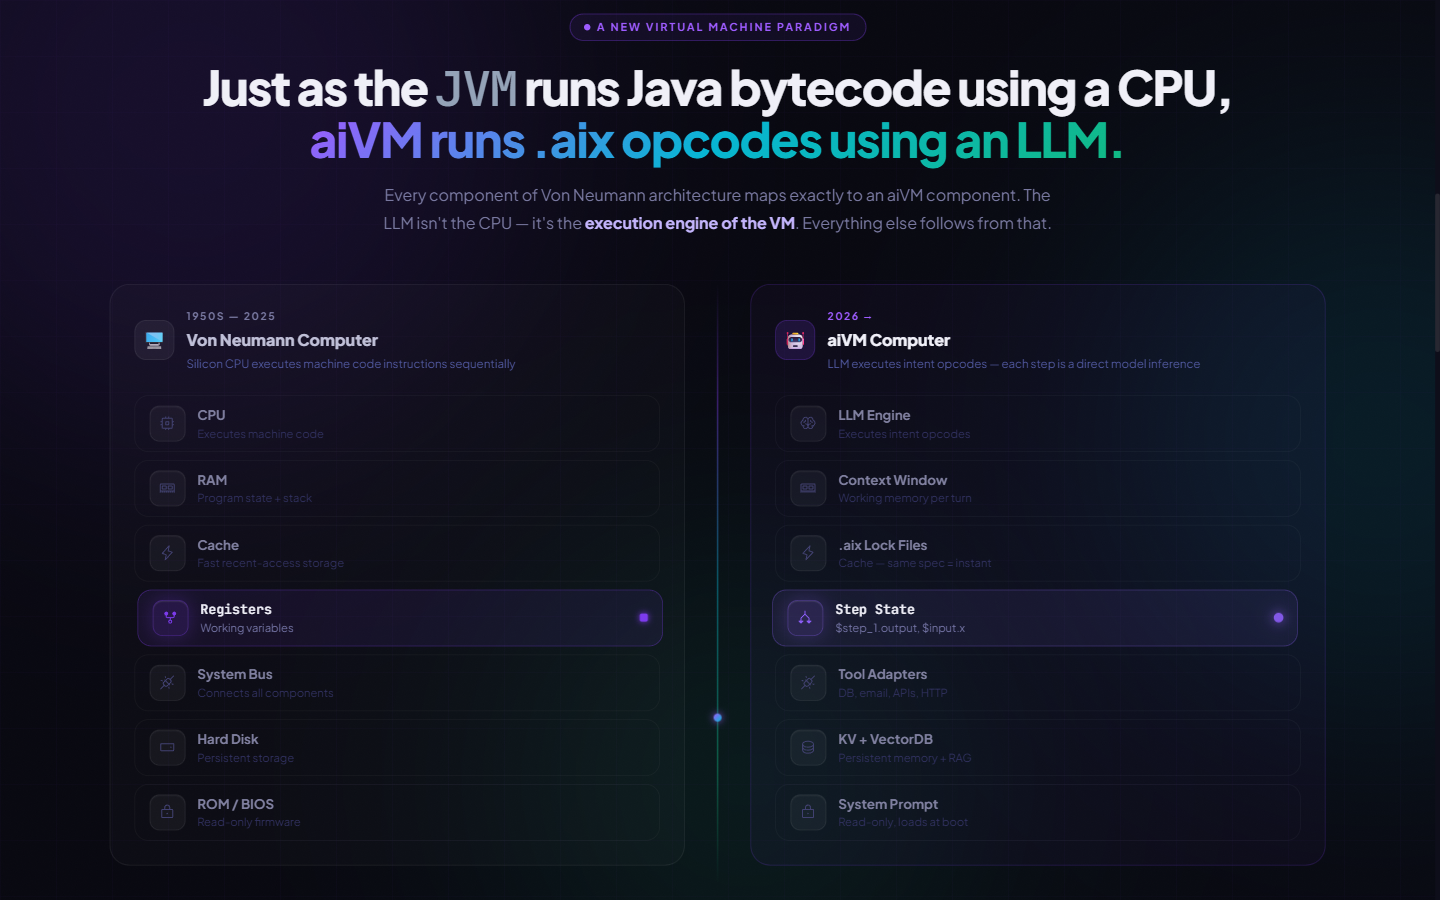
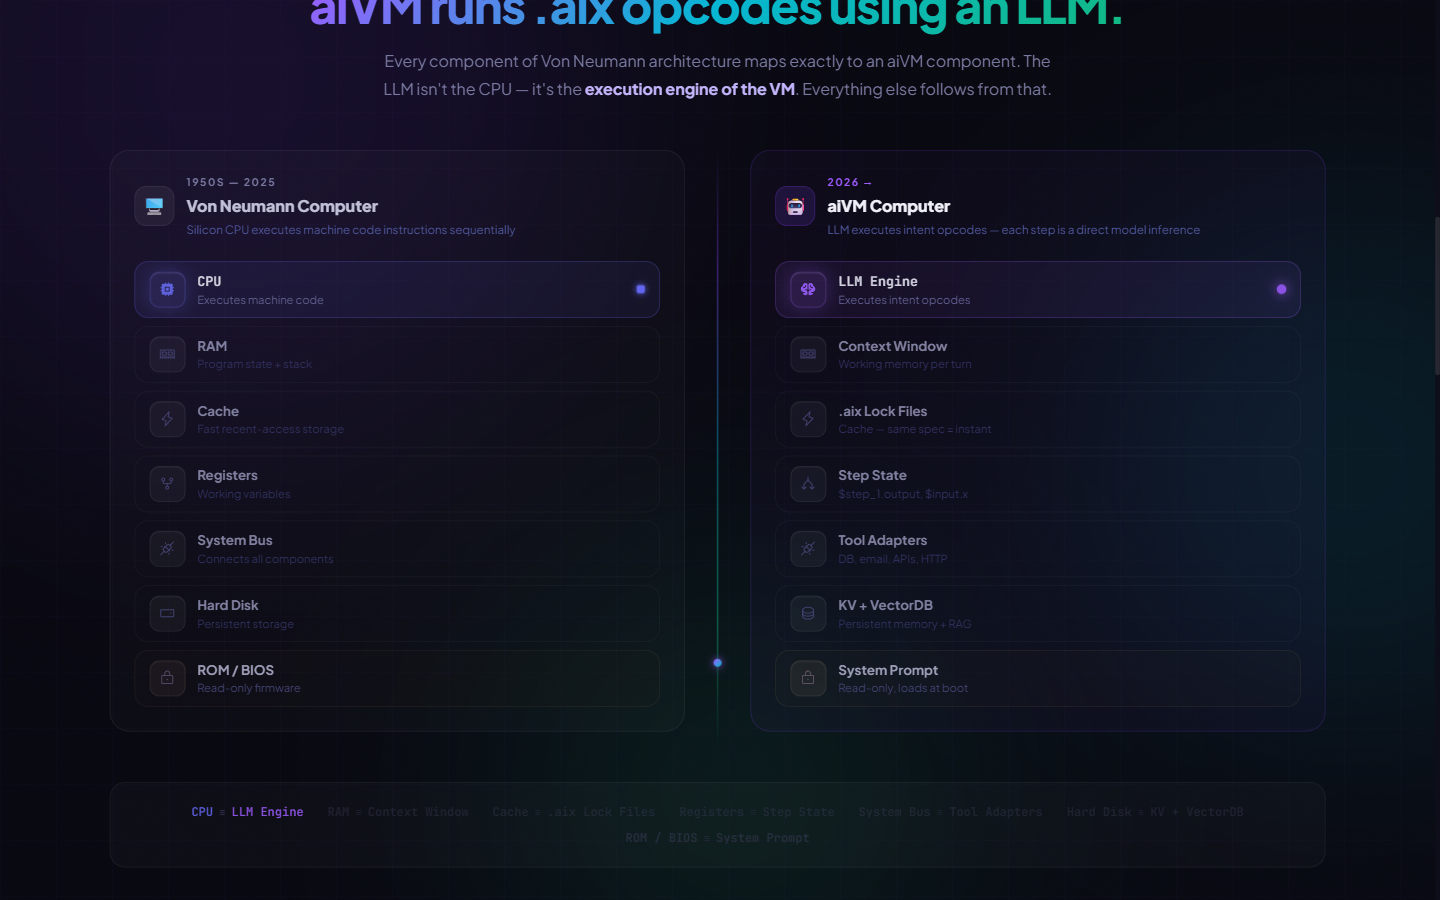
fix: mobile responsive diagram
- .pdg-main-grid: gridTemplateColumns in CSS not inline style
- @media <700px: single column, divider hidden
- Mobile translateX reduced to 20px (no overflow)
- Era table: min-width 28rem (was 32rem), shorter column headers
- NodeRow: removed translateX on active (caused overflow)
- animejs: detects isMobile, uses smaller offset on small screens

diff --git a/web/src/components/ComputingParadigmDiagram.tsx b/web/src/components/ComputingParadigmDiagram.tsx
@@ -68,11 +68,13 @@ export function ComputingParadigmDiagram() {
         if (!entry.isIntersecting || revealed) return;
         setRevealed(true);
         const { animate, stagger, createTimeline } = await import("animejs");
+        const isMobile = window.innerWidth < 700;
+
         const tl = createTimeline({ easing: "spring(1, 80, 10, 0)" });
         tl.add(".pdg-header", { opacity: [0, 1], translateY: [-20, 0], duration: 600 });
-        tl.add(".pdg-left",   { opacity: [0, 1], translateX: [-50, 0], duration: 700 }, "-=400");
+        tl.add(".pdg-left",   { opacity: [0, 1], translateX: [isMobile ? -20 : -50, 0], duration: 700 }, "-=400");
         tl.add(".pdg-divider",{ opacity: [0, 1], scaleY: [0, 1], duration: 500 }, "-=500");
-        tl.add(".pdg-right",  { opacity: [0, 1], translateX: [50, 0], duration: 700 }, "-=600");
+        tl.add(".pdg-right",  { opacity: [0, 1], translateX: [isMobile ? 20 : 50, 0], duration: 700 }, "-=600");
       },
       { threshold: 0.15 }
     );
@@ -116,7 +118,7 @@ export function ComputingParadigmDiagram() {
       </div>
 
       {/* ── Main diagram ── */}
-      <div style={{ display: "grid", gridTemplateColumns: "1fr 2px 1fr", gap: "0 2rem", alignItems: "start" }}>
+      <div className="pdg-main-grid" style={{ display: "grid", alignItems: "start" }}>
 
         {/* LEFT — Classical */}
         <PanelCard
@@ -199,21 +201,26 @@ export function ComputingParadigmDiagram() {
           0%,100% { box-shadow: 0 0 0 0 currentColor; }
           50%      { box-shadow: 0 0 16px 2px currentColor; }
         }
-        @keyframes packetFlow {
-          0%   { offset-distance: 0%;   opacity: 0; }
-          8%   { opacity: 1; }
-          92%  { opacity: 1; }
-          100% { offset-distance: 100%; opacity: 0; }
+
+        /* ── Responsive grid ── */
+        .pdg-main-grid {
+          grid-template-columns: 1fr 2px 1fr;
+          gap: 0 2rem;
         }
-        @keyframes multiPacket {
-          0%   { offset-distance: 0%;  opacity: 0; }
-          5%   { opacity: 0.7; }
-          95%  { opacity: 0.7; }
-          100% { offset-distance: 100%; opacity: 0; }
-        }
+
         @media (max-width: 700px) {
-          .pdg-grid-inner { grid-template-columns: 1fr !important; }
-          .pdg-divider { display: none !important; }
+          .pdg-main-grid {
+            grid-template-columns: 1fr !important;
+            gap: 1rem 0 !important;
+          }
+          .pdg-divider {
+            display: none !important;
+          }
+          .pdg-left,
+          .pdg-right {
+            /* Reset translateX animations on mobile */
+            transform: none !important;
+          }
         }
       `}</style>
     </div>
@@ -295,7 +302,6 @@ function NodeRow({ node, isActive, isClassical, index }: {
       border: `1px solid ${isActive ? node.color + "55" : "rgba(255,255,255,0.04)"}`,
       background: isActive ? node.color + "15" : "transparent",
       transition: "all 0.45s cubic-bezier(0.32,0.72,0,1)",
-      transform: isActive ? (isClassical ? "translateX(3px)" : "translateX(-3px)") : "translateX(0)",
       position: "relative", overflow: "hidden",
     }}>
 
